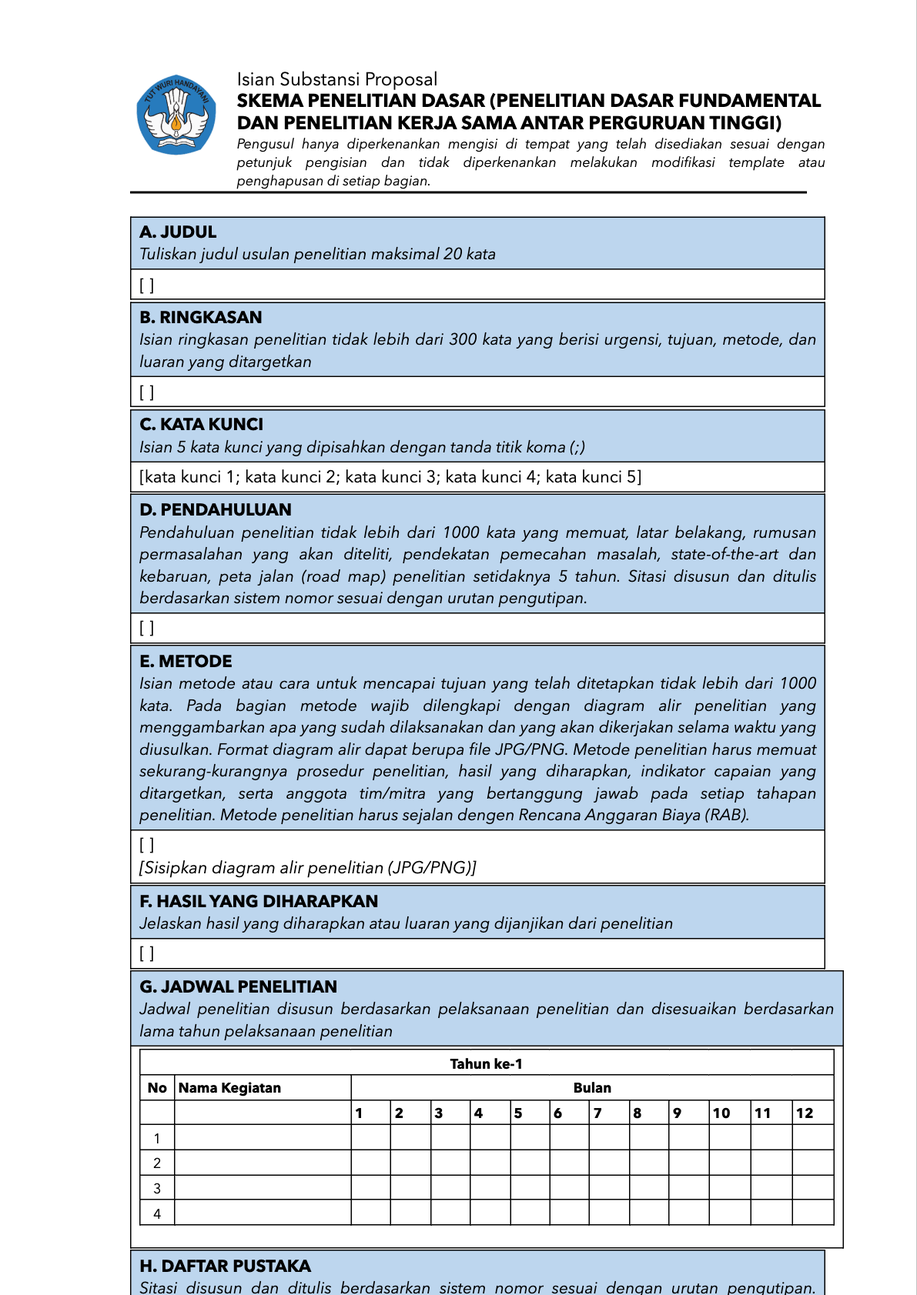
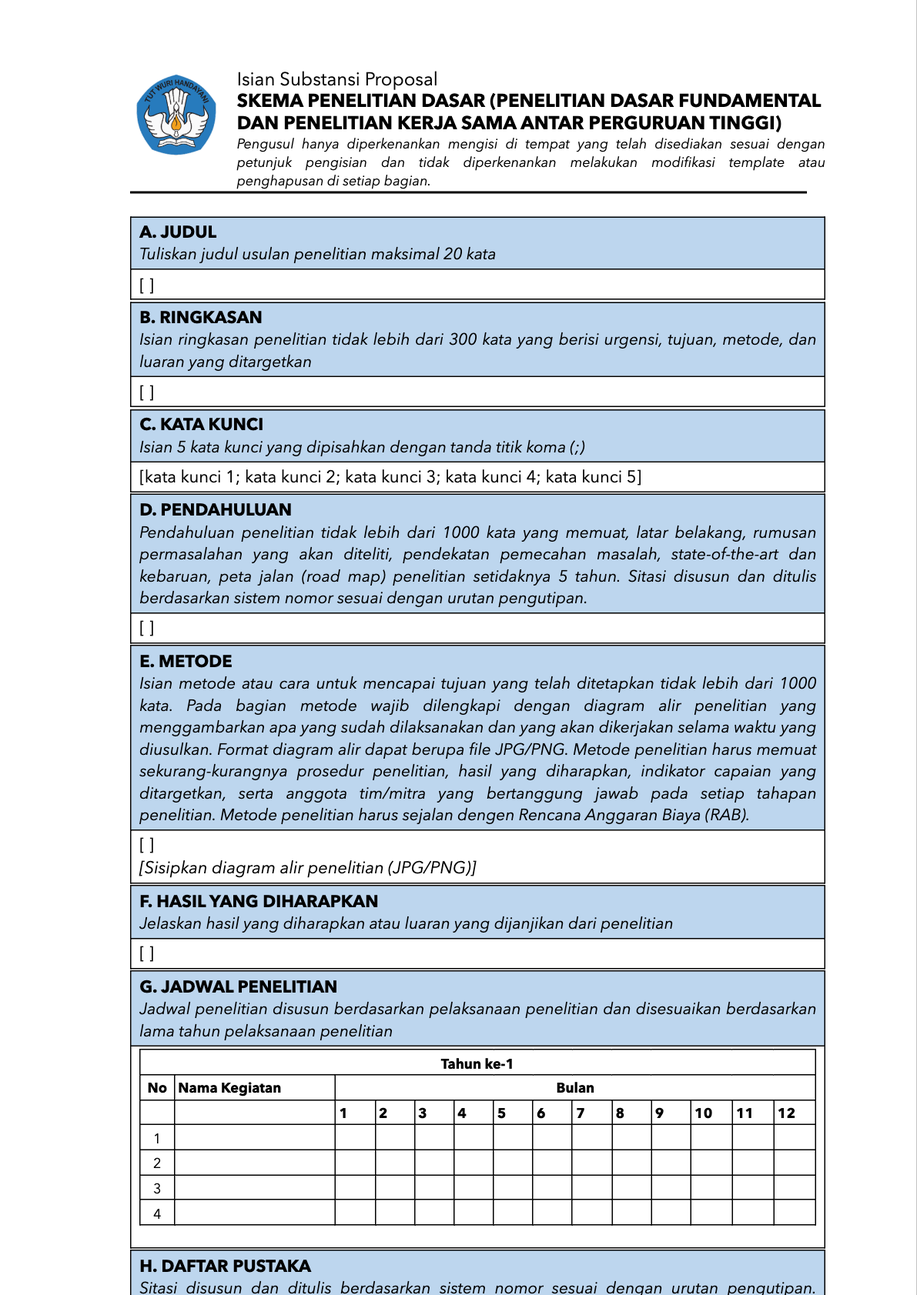
UC-01 putaran 3 (selesai): dokumen kontrak, spesifikasi metode, model, peta jendela, catatan inkonsistensi; e2e M-12, M-01, J-03 turunan; tabel isian menurut lebar sel; pratinjau bagian tambahan; placeholder M-12

Changed region(s): [[0.2175, 0.7415, 0.932, 0.9269]]

diff --git a/src/app/(semar)/tim-kerja/templat/[idTemplat]/susun/modal-ketentuan.tsx b/src/app/(semar)/tim-kerja/templat/[idTemplat]/susun/modal-ketentuan.tsx
@@ -190,8 +190,8 @@ function IsiModal({ buka, saatUbah, indeks, bagian, baru, saatBatalBaru, saatTer
           ) : null}
           {jenis === "tabel" ? (
             <div className="space-y-3">
-              <DaftarIsian label="Kolom Wajib" nilai={k.kolomTabel ?? []} saatUbah={(x) => ubah({ kolomTabel: x })} galat={galat?.kolomTabel} placeholder="mis. Nama Kegiatan, atau Bulan 1–12" labelTambah="Tambah Kolom" />
-              <Isian label="Judul Blok (opsional)" name="judul-tabel" autoComplete="off" className="max-w-xs" placeholder="mis. Tahun ke-1" value={k.judulTabel ?? ""} onChange={(e) => ubah({ judulTabel: e.target.value })} />
+              <DaftarIsian label="Kolom Wajib" nilai={k.kolomTabel ?? []} saatUbah={(x) => ubah({ kolomTabel: x })} galat={galat?.kolomTabel} placeholder="mis. Nama Kegiatan, atau Bulan 1–12…" labelTambah="Tambah Kolom" />
+              <Isian label="Judul Blok (opsional)" name="judul-tabel" autoComplete="off" className="max-w-xs" placeholder="mis. Tahun ke-1…" value={k.judulTabel ?? ""} onChange={(e) => ubah({ judulTabel: e.target.value })} />
               <p className="flex items-center gap-2 text-xs text-teks-redup">
                 <LencanaJenis jenis="deterministik" /> tabel ada dan kolom wajib terbaca (cekTabel)
               </p>
@@ -229,7 +229,7 @@ function IsiModal({ buka, saatUbah, indeks, bagian, baru, saatBatalBaru, saatTer
                 <LencanaJenis jenis="semantik" />
               </span>
             </div>
-            {k.wajibGambar ? <Isian label="Keterangan Gambar" name="ket-gambar" autoComplete="off" className="max-w-md" placeholder="diagram alir penelitian" value={k.ketGambar ?? ""} onChange={(e) => ubah({ ketGambar: e.target.value })} /> : null}
+            {k.wajibGambar ? <Isian label="Keterangan Gambar" name="ket-gambar" autoComplete="off" className="max-w-md" placeholder="mis. diagram alir penelitian…" value={k.ketGambar ?? ""} onChange={(e) => ubah({ ketGambar: e.target.value })} /> : null}
           </div>
 
           {jenis !== "tabel" ? (
@@ -238,7 +238,7 @@ function IsiModal({ buka, saatUbah, indeks, bagian, baru, saatBatalBaru, saatTer
                 <KotakCentang id="k-tabel" label="Tabel di dalam bagian" checked={k.wajibTabel ?? false} onCheckedChange={(v) => ubah({ wajibTabel: v === true })} />
                 <LencanaJenis jenis="deterministik" />
               </div>
-              {k.wajibTabel ? <DaftarIsian label="Kolom Wajib" nilai={k.kolomTabel ?? []} saatUbah={(x) => ubah({ kolomTabel: x })} galat={galat?.kolomTabel} placeholder="kolom wajib (opsional)" labelTambah="Tambah Kolom" /> : null}
+              {k.wajibTabel ? <DaftarIsian label="Kolom Wajib" nilai={k.kolomTabel ?? []} saatUbah={(x) => ubah({ kolomTabel: x })} galat={galat?.kolomTabel} placeholder="mis. Uraian…" labelTambah="Tambah Kolom" /> : null}
             </div>
           ) : null}
 
@@ -261,7 +261,7 @@ function IsiModal({ buka, saatUbah, indeks, bagian, baru, saatBatalBaru, saatTer
               <p className="text-sm font-medium text-primer-900">Frasa wajib</p>
               <LencanaJenis jenis="deterministik" />
             </div>
-            <DaftarIsian label="Frasa" nilai={k.frasaWajib ?? []} saatUbah={(x) => ubah({ frasaWajib: x })} galat={galat?.frasaWajib} placeholder="kalimat yang harus muncul persis" labelTambah="Tambah Frasa" />
+            <DaftarIsian label="Frasa" nilai={k.frasaWajib ?? []} saatUbah={(x) => ubah({ frasaWajib: x })} galat={galat?.frasaWajib} placeholder="mis. Seluruh biaya sesuai RAB…" labelTambah="Tambah Frasa" />
           </div>
 
           <div className="space-y-2">
@@ -278,7 +278,7 @@ function IsiModal({ buka, saatUbah, indeks, bagian, baru, saatBatalBaru, saatTer
                       className="min-w-0 flex-1"
                       name={`unsur-${i}`}
                       autoComplete="off"
-                      placeholder="mis. urgensi"
+                      placeholder="mis. urgensi…"
                       value={u.unsur}
                       onChange={(e) => ubah({ unsurIsi: (k.unsurIsi ?? []).map((x, j) => (j === i ? { ...x, unsur: e.target.value } : x)) })}
                     />
@@ -351,7 +351,7 @@ function IsiModal({ buka, saatUbah, indeks, bagian, baru, saatBatalBaru, saatTer
             <ul className="space-y-1">
               {pratinjau.map((b, i) => (
                 <li key={`${b.kode}-${i}`} className="flex flex-wrap items-center gap-2">
-                  <span className="font-mono text-xs font-semibold text-abu-700">{b.kode.replace(/-\d+$/, "")}</span>
+                  <span translate="no" className="font-mono text-xs font-semibold text-abu-700">{b.kode.replace(/-\d+$/, "")}</span>
                   <span className="min-w-0 flex-1">{b.deskripsi}</span>
                   <LencanaJenis jenis={b.jenis} />
                 </li>

diff --git a/scripts/pratinjau-docx.ts b/scripts/pratinjau-docx.ts
@@ -10,7 +10,7 @@ import { execFileSync } from "node:child_process";
 import { existsSync, mkdirSync, readFileSync } from "node:fs";
 import path from "node:path";
 import puppeteer from "puppeteer-core";
-import { bagianBawaan, kepalaBawaan, lengkapiBagian } from "../src/lib/templat/isian-substansi";
+import { bagianBawaan, kepalaBawaan, lengkapiBagian, susunPetunjuk } from "../src/lib/templat/isian-substansi";
 import { buatDokumenTemplat } from "../src/lib/templat/dokumen";
 
 const akar = path.resolve(import.meta.dirname, "..");
@@ -174,6 +174,37 @@ async function utama() {
     );
     await page.screenshot({ path: path.join(KELUAR, `uc01-docx-${nama}.png`), fullPage: true });
     console.log("tulis", `uc01-docx-${nama}.png`);
+  }
+
+  // bagian tambahan (putaran 3): daftar 3 butir, tabel berkolom, gambar berketerangan; hanya hasil generator, boleh di-commit
+  {
+    // petunjuk otomatis seperti yang tersimpan dari M-12 ("Susun ulang petunjuk")
+    const tambahan = lengkapiBagian(
+      lengkapiBagian([
+      { urutan: 1, nama: "Bidang Keilmuan", batasKata: null, wajib: true, jenisIsian: "daftar", jumlahButir: 3, pemisah: ";", unsurIsi: [{ unsur: "bidang keilmuan utama penelitian" }] },
+      { urutan: 2, nama: "Rencana Biaya", batasKata: 200, wajib: true, wajibTabel: true, kolomTabel: ["No", "Uraian", "Volume", "Biaya"], wajibGambar: true, ketGambar: "peta lokasi penelitian", frasaWajib: ["Seluruh biaya sesuai RAB"] },
+      { urutan: 3, nama: "Rincian Tahap", batasKata: null, wajib: true, jenisIsian: "tabel", kolomTabel: ["Kode", "Tahap", "Penanggung Jawab"], judulTabel: "Tahap 1" },
+      ]).map((b) => ({ ...b, petunjuk: susunPetunjuk(b) })),
+    );
+    const bytes = await buatDokumenTemplat({ versi: 2, status: "Draf" }, tambahan, [], { kode: "PD", namaSkema: "Penelitian Dasar" }, { nama: "Seleksi 2026", tahun: 2026 }, { kepala: kepalaBawaan("dasar"), mode: "isian" });
+    await page.close();
+    page = await peramban.newPage();
+    await page.setViewport({ width: 1000, height: 1300, deviceScaleFactor: 1.5 });
+    await page.setContent(`<!doctype html><html><head><style>${FONT_CSS}</style></head><body><div id="k"></div></body></html>`);
+    await page.addScriptTag({ content: jszip });
+    await page.addScriptTag({ content: dp });
+    await page.evaluate(async (b64: string) => {
+      const bin = atob(b64);
+      const u = new Uint8Array(bin.length);
+      for (let i = 0; i < bin.length; i++) u[i] = bin.charCodeAt(i);
+      // @ts-expect-error global dari docx-preview
+      await window.docx.renderAsync(u.buffer, document.getElementById("k"), undefined, { breakPages: true, ignoreLastRenderedPageBreak: false, useBase64URL: true });
+    }, Buffer.from(bytes).toString("base64"));
+    await new Promise((r) => setTimeout(r, 600));
+    const halaman = await page.$$("section.docx");
+    const kotak = await halaman[0].boundingBox();
+    if (kotak) await page.screenshot({ path: path.join(KELUAR, "uc01r3-docx-tambahan.png"), captureBeyondViewport: true, clip: { x: kotak.x, y: kotak.y, width: kotak.width, height: Math.min(kotak.height, 760) } });
+    console.log("tulis uc01r3-docx-tambahan.png");
   }
 
   // kop berdampingan dengan contoh pada skala sama (puncak lembar 230 px); tidak di-commit karena memuat potongan PDF asli

diff --git a/src/lib/templat/dokumen.ts b/src/lib/templat/dokumen.ts
@@ -320,7 +320,8 @@ function tabelIsian(kolomWajib: string[], judul: string | null): Table {
   const lain = kolom.filter((k) => !POLA_KOLOM_BULAN.test(k));
   const bulan = Array.from({ length: 12 }, (_, i) => String(i + 1));
   const lebarBulan = adaBulan ? 12 * 505 : 0;
-  const sisa = LEBAR_ISIAN - lebarBulan;
+  // lebar dalam sel isian: lebar tabel bagian dikurangi bantalan sel kiri dan kanan (2 x 100 twip) dan sedikit ruang bingkai
+  const sisa = LEBAR_ISIAN - 240 - lebarBulan;
   const lebarLain = lain.map((k) => (/^no\.?$/i.test(k) ? 380 : Math.floor((sisa - lain.filter((x) => /^no\.?$/i.test(x)).length * 380) / Math.max(1, lain.filter((x) => !/^no\.?$/i.test(x)).length)))) ;
   const jumlahTetap = lebarLain.reduce((a, b) => a + b, 0);
   if (lebarLain.length) lebarLain[lebarLain.length - 1] += sisa - jumlahTetap;

diff --git a/e2e/jalankan.ts b/e2e/jalankan.ts
@@ -96,7 +96,7 @@ async function skenario(nama: string, page: Page, kerja: (catat: (c: string) => 
     catatan.push("tanpa galat konsol");
   } catch (e) {
     lulus = false;
-    catatan.push(`GAGAL: ${e instanceof Error ? e.message : String(e)}`);
+    catatan.push(`GAGAL: ${e instanceof Error ? e.message : String(e)}${galatKonsol.length ? ` | konsol: ${galatKonsol.slice(0, 2).join(" | ").slice(0, 400)}` : ""}`);
     masalah.push(`${nama}: ${e instanceof Error ? e.message : String(e)}`);
     try {
       await foto(page, `gagal-${nama.replace(/[^a-z0-9]+/gi, "-").toLowerCase().slice(0, 40)}`);

diff --git a/docs/kontrak-dan-spesifikasi-metode.md b/docs/kontrak-dan-spesifikasi-metode.md
@@ -106,7 +106,7 @@ Tipe yang dirujuk berada di `kontrak/tipe.ts` (`ButirCek`, `DokumenPeriksa`, `Ko
 | Type of Value Returned | `ButirSeed[]` (`kode, deskripsi, jenis:"deterministik", asal:"templat", komponen, pemeriksa, parameter: ParameterButir, aturanHitung`) |
 | Pre-Conditions | [P1] Masukan sudah lolos C-01 (nama tidak kosong). Fungsi murni, tanpa basis data. |
 | Post-Conditions | [Q1] Untuk setiap bagian dengan `wajib = true`: tepat satu butir `BGN-nn` (`parameter = {tipe:"bagian_terisi", bagian}`, pemeriksa `periksaBagianTerisi`, komponen `Screening`); bagian terisi bila berisi kata atau penanda tabel/gambar.<br>[Q2] Untuk setiap bagian dengan `batasKata != null` (termasuk 0): tepat satu butir `KTA-nn` (`{tipe:"batas_kata", bagian, batas}`, pemeriksa `hitungKata`, komponen `2. Jumlah kata per bagian`).<br>[Q2a] Bagian `jenisIsian = "daftar"` dengan `jumlahButir >= 1` dan `pemisah`: butir `KAT-nn` (`{tipe:"kata_kunci", jumlah, pemisah}`, `cekKataKunci`, deskripsi "Kata kunci tepat 5, dipisahkan titik koma (;)"). Bagian `wajibGambar`: `GBR-nn` (`{tipe:"diagram_alir", bagian}`, `periksaDiagramAlir`). Bagian `jenisIsian = "tabel"`: `TBL-nn` (`{tipe:"tabel_wajib", bagian}`, `cekTabel`).<br>[Q2b] Bila ada bagian `sitasiBernomor`: `SIT-01` (`sitasi_bernomor`); bila ada bagian `daftarPustaka` (nama masuk parameter `pustaka`): `SIT-02` (`pustaka_berurutan`) dan `SIT-03` (`jumlah_referensi_sama`), semuanya `cocokkanSitasi`.<br>[Q3] Untuk setiap lampiran: tepat satu butir `LMP-nn` (`{tipe:"lampiran_wajib", nama}`, `cekLampiran`, komponen `Lampiran`); untuk lampiran berjenis formulir dengan kalimat kunci: tambahan `FMT-nn` (`{tipe:"lampiran_format", nama, kunci[]}`).<br>[Q4] Penomoran `nn` dua digit terpisah per awalan (BGN, KTA, KAT, GBR, TBL, LMP, FMT), mengikuti urutan masukan; urutan keluaran: per bagian (BGN, KTA, KAT, GBR, TBL), lalu SIT, lalu LMP, lalu FMT.<br>[Q5] Jumlah keluaran = bagian wajib + bagian berbatas kata + butir ketentuan + butir sitasi + lampiran + butir format.<br>[Q6] Semua butir `jenis = "deterministik"`, `asal = "templat"`; status `Draf` diberikan oleh pemanggil (C-02). |
-| Catatan | Daftar Pustaka dan Kata Kunci hanya menghasilkan butir bila ditandai wajib atau berbatas kata. Butir sitasi dan kata kunci tidak berasal dari templat (manual, UC-02). |
+| Catatan | Daftar Pustaka dan Kata Kunci hanya menghasilkan butir bila ditandai wajib atau berbatas kata. Butir sitasi dan kata kunci tidak berasal dari templat (manual, UC-02). **Diperluas pada putaran 3 (24 Okt 2026): butir semantik dan ketentuan baru, lihat bagian "Putaran 3 UC-01" di akhir berkas.** |
 
 ### C-04 TemplatProposal.arsipkan
 
@@ -739,4 +739,48 @@ Fungsi murni baru pada putaran 22 Okt 2026 dan kontrak induknya: `putuskanTerbit
 | Bagian formulir | Isi |
 |---|---|
 | Algorithm Specification | [J1] IF lampiran belum ada THEN Gagal; SET teks = normalisasi isi lampiran; [J2] IF teks kosong (pindaian) THEN Lolos "format belum diperiksa"; SET hilang = kalimat kunci yang tidak ada di teks (huruf kecil, tanda baca dan spasi ganda dibuang); [J3] IF hilang kosong THEN Lolos "n dari n kalimat kunci"; [J4] ELSE Gagal dengan daftar yang belum ada. |
+
+## Putaran 3 UC-01 (24 Okt 2026): ketentuan bagian komprehensif
+
+Pembaruan C-01, C-03, C-17, C-31, MS-10, MS-13, MS-15, MS-16 serta MS baru MS-18 (periksaFrasa dan periksaBatasMin) dan MS-19 (susunPetunjuk). Sumber keputusan: `docs/arah-uc01-2026-10-23.md` bagian 6.
+
+### Model ketentuan sebuah bagian (Class Diagram BagianTemplat)
+
+Atribut: `nama`, `tipeIsian` (`teks` | `daftar` | `tabel` | `daftar_pustaka`), `batasMin` (opsional), `batasKata` (maksimal, opsional), `wajib`, `petunjuk`, dan **Wajib Memuat**: `wajibGambar` + `ketGambar`, `wajibTabel` (di dalam bagian teks) + `kolomTabel` + `judulTabel`, `sitasiBernomor`, `frasaWajib[]`, `unsurIsi[]` (`unsur`, `pertanyaan` opsional); untuk tipe daftar `jumlahButir` dan `pemisah` (`;` `,` `/`). Tipe `daftar_pustaka` disimpan sebagai `jenis_isian = teks` dengan `daftar_pustaka = true` supaya kode produksi lama tetap membaca baris yang sama.
+
+### C-01 periksaKelengkapan (tambahan)
+
+| Bagian formulir | Isi |
+|---|---|
+| Arguments Received (tambahan) | Tiap `BarisBagianMentah` memuat `batasMin: string`, `wajibTabel`, `kolomTabel: string[]`, `judulTabel`, `ketGambar`, `frasaWajib: string[]`, `unsurIsi: {unsur; pertanyaan}[]`, dan `jenisIsian` boleh `daftar_pustaka`. |
+| Post-Conditions (tambahan) | [Q8] `ketentuan.batasMin` terisi bila `batasMin` tidak kosong dan bukan bilangan bulat > 0, atau melebihi `batas` (saat `tanpaBatas = false` dan `batas` sah).<br>[Q9] `ketentuan.kolomTabel` terisi bila tipe `tabel` tanpa kolom terisi, atau ada nama kolom kosong (tipe `tabel` atau `wajibTabel`).<br>[Q10] `ketentuan.frasaWajib` terisi bila ada frasa kosong; `ketentuan.unsurIsi` terisi bila ada unsur kosong.<br>[Q11] Tipe `daftar`: jumlah butir bilangan bulat >= 1 dan pemisah tepat satu karakter (seperti sebelumnya).<br>[Q12] Paling banyak satu bagian bertipe `daftar_pustaka` (atau berpenanda `daftarPustaka`); `sitasiBernomor` pada suatu bagian butuh satu bagian `daftar_pustaka`.<br>[Q13] `lengkap = false` bila ada `ketentuan` non-null pada baris mana pun. |
+
+### C-03 turunkanButirCek (pengganti [Q1]-[Q6] untuk bagian)
+
+| Bagian formulir | Isi |
+|---|---|
+| Arguments Received | `bagian: BagianSeed[]` memuat ketentuan penuh (atribut di atas); `lampiranWajib`; `lampiranTemplat` |
+| Type of Value Returned | `ButirSeed[]` = `{kode, deskripsi, jenis: "deterministik" \| "semantik", asal: "templat", komponen, pemeriksa, parameter, aturanHitung, pertanyaan, contohJawaban, bagian}` |
+| Post-Conditions | [Q1] `wajib` → `BGN-nn` (Deterministik, `periksaBagianTerisi`).<br>[Q2] `batasKata != null` → `KTA-nn` (`hitungKata`); `batasMin != null` → `KTM-nn` (`{tipe:"batas_kata_min"}`, `hitungKata` minimal).<br>[Q3] tipe `daftar` dengan jumlah dan pemisah → `KAT-nn` (`{tipe:"kata_kunci", jumlah, pemisah, bagian}`, `cekKataKunci`); deskripsi "Kata kunci tepat N, dipisahkan titik koma (;)" untuk bagian Kata Kunci, selain itu "<Nama>: tepat N butir, dipisahkan ...".<br>[Q4] `wajibGambar` → `GBR-nn` (Deterministik, `{tipe:"diagram_alir", bagian, keterangan}`, bawaan keterangan "diagram alir penelitian") **dan** satu `UNS-nn` Semantik (kesesuaian isi gambar dengan bagian; pemetaan ISI-03S).<br>[Q5] tipe `tabel` atau `wajibTabel` → `TBL-nn` (`cekTabel`, parameter memuat `kolom` bila ada).<br>[Q6] setiap frasa wajib terisi → `FRS-nn` (`{tipe:"frasa_wajib", bagian, frasa}`, `periksaFrasa`).<br>[Q7] setiap unsur isi terisi → satu `UNS-nn` Semantik (`nilaiSemantik`, `{tipe:"semantik", bagian}`, `pertanyaan` = hasil sunting atau "Apakah bagian {nama} memuat {unsur}?"). Butir ini berjalan di J-08/UC-09 seperti butir semantik manual (mesin membaca `parameter.bagian` dan `pertanyaan`).<br>[Q8] `sitasiBernomor` → `SIT-01`; bagian `daftar_pustaka` → `SIT-02`, `SIT-03` (`cocokkanSitasi`).<br>[Q9] lampiran seperti sebelumnya (`LMP-nn`, `FMT-nn`).<br>[Q10] Penomoran `nn` terpisah per awalan (BGN, KTA, KTM, KAT, GBR, TBL, FRS, UNS, LMP, FMT), mengikuti urutan bagian; urutan keluaran per bagian: BGN, KTA, KTM, KAT, GBR, UNS gambar, TBL, FRS, UNS unsur; lalu SIT; LMP; FMT.<br>[Q11] Butir tetap bergembok di J-03 (4a); status `Draf` diberikan C-02. |
+| Catatan | Pemetaan butir semantik katalog lama: ISI-01 → UNS (4 unsur Ringkasan); ISI-02 → UNS (5 unsur Pendahuluan); ISI-04 → UNS (unsur "anggota tim/mitra ..." pada Metode); ISI-05S → UNS (Hasil yang Diharapkan); ISI-03S → UNS kesesuaian gambar (Metode); ISI-05D → BGN (Hasil yang Diharapkan wajib). Butir lampiran semantik (LMP-S1, ART-S1/S2, MIT-S1) tetap manual. |
+
+### C-17 / MS-13 cekKataKunci (tambahan)
+
+Argumen keempat `bagianDaftar?: string`. [J10] Bila bagian bernama "Kata Kunci" (atau tidak disebut) isian dibaca dari `dokumen.kataKunci`; [J11] bagian daftar lain dibaca dari `teksPerBagian[bagian]`, sebutan "butir" menggantikan "kata kunci" di angka pembukti dan nama bagian di `bagian`/`batasDilanggar`. Jalur J1-J9 tidak berubah.
+
+### MS-15 cekTabel (tambahan) dan periksaDiagramAlir (tambahan)
+
+`cekTabel(dokumen, bagian, kolom?)`: [J6] tanpa bukti tabel → Gagal; [J7] tanpa kolom wajib → Lolos seperti J1-J4; [J8] bukti hanya penanda "[tabel]" dari DOCX dan tak satu pun kolom terbaca → Lolos dengan catatan "isi kolom tidak terbaca ... belum dapat diperiksa" (isi tabel DOCX tidak diekstrak); sebagian kolom terbaca → Gagal; [J9] semua kolom terbaca → Lolos, selain itu Gagal "belum ada: ...". Kolom "Bulan a–b" cukup dengan kata "bulan". `periksaDiagramAlir(dokumen, bagian, keterangan?)`: [J5] keterangan khusus (bukan "diagram alir") dicari pada baris "Gambar n ..." yang memuatnya; [J6] bila tidak ada tetapi ada gambar lain tetap Lolos sebagai gambar; tanpa gambar Gagal dengan menyebut keterangan.
+
+### MS-18 periksaFrasa dan periksaBatasMin
+
+`periksaFrasa(dokumen, bagian, frasa)`: [J1] normalisasi (huruf kecil, tanda baca dan spasi ganda dibuang) teks bagian memuat frasa → Lolos; [J2] selain itu Gagal "Bagian X harus memuat kalimat ...". `periksaBatasMin(dokumen, bagian, batas)`: [J1] jumlah kata >= batas → Lolos; [J2] selain itu Gagal dengan selisih; [J3] bagian tidak ditemukan dicatat pada angka pembukti.
+
+### MS-19 susunPetunjuk
+
+Menyusun kalimat petunjuk dari ketentuan: [J1] daftar pustaka memakai kalimat resmi; [J2] daftar: "Isian N butir ... dipisahkan dengan tanda <nama pemisah>"; [J3] tabel: kolom dan judul blok; [J4] teks dengan minimal, maksimal (`{batas}`), keduanya, atau tanpa batas; [J5] unsur isi ("yang memuat a, b, dan c"; dua unsur "a dan b"); [J6] gambar, [J7] tabel wajib, [J8] sitasi bernomor, [J9] frasa wajib sebagai kalimat tambahan. Bagian A-H bawaan memakai petunjuk resmi dari contoh, bukan fungsi ini.
+
+### C-31 / MS-10 buatDokumenTemplat (tambahan)
+
+Tempat isian mengikuti ketentuan: [J12] daftar `[butir 1; butir 2; ...]` (bagian Kata Kunci memakai "kata kunci n") dengan pemisah bagian; [J15] tabel menurut `kolomTabel` (kolom "Bulan 1–12" diperluas dua belas nomor bulan; kolom "No" diberi nomor baris; judul blok bila ada, bawaan "Tahun ke-1" untuk baris lama tanpa kolom); [J16] bagian teks `wajibTabel` mencetak "[Sisipkan tabel]" dan tabel kosong; [J17] gambar mencetak "[Sisipkan {keterangan} (JPG/PNG)]". Kop dan kepala mengikuti ukuran terukur dari PDF contoh (lihat `docs/perubahan-model.md`, putaran 3).
 

diff --git a/docs/peta-uc-jendela.md b/docs/peta-uc-jendela.md
@@ -38,7 +38,7 @@ Modal memakai Dialog `radix-ui` (fokus terjebak, Esc menutup, `aria-labelledby`)
 | M-01 | "Terbitkan" | J-02 `?hasil=terbit` (s.10) atau `?hasil=draf` (9a) | layar | "Buka Aturan Pemeriksaan" dan "Unduh Templat (.docx)" / "Buka Draf" dan "Unduh Pratinjau (.docx)" |
 | J-02b | "Unduh Pratinjau (.docx)" | unduhan (draf disimpan dulu) | unduhan | paket lengkap: halaman depan, Isian Substansi A-H, halaman lampiran |
 | J-02 | "Unduh Isian Substansi (.docx)" | unduhan (`?mode=isian`) | unduhan | hanya bagian A-H |
-| J-02b | "Atur Ketentuan" (per baris bagian) | M-12 Ketentuan Bagian | modal | yang diganti per versi: petunjuk, batas kata, jumlah butir (bagian daftar), wajib; aturan format baku tampil hanya-baca; "Terapkan" nonaktif bila jumlah butir atau batas kata tidak sah |
+| J-02b | "Atur Ketentuan" (per baris bagian) | M-12 Ketentuan Bagian | modal | dipakai untuk "Tambah Bagian" dan "Atur Ketentuan"; ukuran lg dengan isi bergulir; empat kelompok: Tipe Isian (teks, daftar, tabel, daftar pustaka), Batas Kata (minimal dan maksimal), Wajib Memuat (gambar berketerangan, tabel, sitasi bernomor, frasa wajib, unsur isi), Petunjuk Pengisian (disusun otomatis, "Susun ulang petunjuk", boleh disunting); tiap pilihan berlabel Deterministik atau Semantik; pratinjau "Butir cek yang akan lahir dari bagian ini"; validasi di dekat isian, "Terapkan" nonaktif bila tidak sah; Batal pada bagian baru membuang barisnya |
 | J-02b | "Atur Templat Lampiran" (per lampiran wajib) | M-13 Templat Lampiran | modal | unggahan bebas atau formulir bertemplat (judul, isi, kalimat kunci untuk cekLampiran), sakelar sertakan halaman lampiran |
 | J-02b | "Simpan Draf" | J-02b (toast) | - | Back membuka J-02 |
 | J-03 | "Tambah Butir" / "Ubah" (butir manual) | M-02 Form Butir | modal | galat tampil di dekat isian |
@@ -117,7 +117,7 @@ Alamat: `/demo/mulai?j=<kode jendela>&s=<id skenario>`; tanpa `s` (berpindah jen
 
 | UC | Jendela yang dipakai | Langkah real use case | Alternatif yang dapat diperagakan | Rute awal (jalan pintas) |
 |---|---|---|---|---|
-| UC-01 Mengelola templat proposal | J-02, J-02b, M-01, M-12, M-13 | s.1-3 J-02 (pilih Skema Pendanaan; lihat versi, periode, bagian, lampiran); s.4-7 J-02b (Susun Versi Baru; Tambah Bagian/Lampiran; Periode Berlaku); s.7 M-01 (Terbitkan); s.10 dan 9a J-02 `?hasil=` (pesan terbit dan jumlah butir draf; Buka Aturan Pemeriksaan). Semula: 1-10: lihat versi, periode, bagian, lampiran; Susun Versi Baru; Tambah Bagian/Lampiran; Periode Berlaku; Terbitkan; pesan terbit dan jumlah butir draf; Buka Aturan Pemeriksaan | S-1 skema belum punya templat (kartu `UC-01-S1`, skema contoh "PK"); S-2 Lengkapi isian yang ditandai (J-02b, modal tidak terbuka); 9a masa pengusulan berjalan (draf tersimpan) | `/demo/mulai?k=UC-01` -> `/tim-kerja/templat` (masa ditutup, draf sisa demo dibuang; nyalakan sakelar "berjalan" untuk 9a); `k=UC-01-S1` -> J-02 pada skema tanpa templat |
+| UC-01 Mengelola templat proposal | J-02, J-02b, M-01, M-12, M-13 | s.1-3 J-02 (pilih Skema Pendanaan; lihat versi, periode, bagian, lampiran); s.4-7 J-02b (Susun Versi Baru; Tambah Bagian/Lampiran; Periode Berlaku); s.7 M-01 (Terbitkan; menyebut jumlah butir deterministik dan semantik yang akan dibuat); s.10 dan 9a J-02 `?hasil=` (jumlah butir per jenis; Buka Aturan Pemeriksaan membuka J-03 dengan butir turunan baru tersorot) (pesan terbit dan jumlah butir draf; Buka Aturan Pemeriksaan). Semula: 1-10: lihat versi, periode, bagian, lampiran; Susun Versi Baru; Tambah Bagian/Lampiran; Periode Berlaku; Terbitkan; pesan terbit dan jumlah butir draf; Buka Aturan Pemeriksaan | S-1 skema belum punya templat (kartu `UC-01-S1`, skema contoh "PK"); S-2 Lengkapi isian yang ditandai (J-02b, modal tidak terbuka); 9a masa pengusulan berjalan (draf tersimpan) | `/demo/mulai?k=UC-01` -> `/tim-kerja/templat` (masa ditutup, draf sisa demo dibuang; nyalakan sakelar "berjalan" untuk 9a); `k=UC-01-S1` -> J-02 pada skema tanpa templat |
 | UC-02 Mengelola aturan pemeriksaan | J-03, J-03b, M-02..M-05 (tautan ke J-02) | s.1-2 J-03 (pilih skema dan periode; tabel butir); s.3-4 M-02 (Tambah Butir/Ubah), M-03 (Nonaktifkan), M-04 (4a butir turunan templat); s.5 M-02 (Simpan Butir); s.6 J-03b (Uji pada Contoh, Hasil Uji); s.7-8 M-05 (Tanggal Berlaku, Simpan Versi). Semula: 1-8: pilih skema dan periode; tabel butir; Tambah Butir/Ubah/Nonaktifkan; panel butir; Simpan Butir; Uji pada Contoh (Hasil Uji); Tanggal Berlaku dan Simpan Versi | S-1 ubah lalu uji ulang; 4a butir turunan templat (terkunci); 8a tanggal berlaku di tengah masa pengusulan | `/demo/mulai?k=UC-02` -> `/tim-kerja/aturan` |
 | UC-03 Menugaskan reviewer | J-04 (s.1), J-04b (s.2-8), M-06 (S-2), M-07 (s.7); pesan penetapan terlihat di kotak masuk BIMA dan J-07 | s.1 J-04 (periode ditutup); s.2-6 J-04b (Batas Beban per Reviewer; Susun Usulan Penugasan; tabel Usulan Penugasan dan Sebaran Beban); S-2 M-06; s.7 M-07 (Tetapkan Penugasan); s.8 J-04b (pesan ditetapkan). Semula: 1-8: Batas Beban per Reviewer; Susun Usulan Penugasan; tabel Usulan Penugasan dan Sebaran Beban; Tetapkan Penugasan | S-1 Kekurangan Reviewer (batas beban 1); S-2 Pindahkan, Reviewer Pengganti, Simpan Pemindahan (syarat dilanggar ditampilkan) | `/demo/mulai?k=UC-03` -> `/tim-kerja/penugasan` (enam proposal Terkirim siap ditugaskan, masa ditutup) |
 | UC-04 Memantau kesesuaian penilaian | J-05, M-08, M-09, J-05b (butir yang ditandai tampil di J-03) | s.1-5 J-05; s.4-5 rincian di M-08; s.6-7 M-09 (Tandai Butir) lalu J-03; J-05b untuk rincian proposal. Semula: 1-7: Periode Seleksi dan Skema Pendanaan; Butir Deterministik Paling Sering Gagal; Kesesuaian per Butir (% Disetujui); Butir dengan Koreksi Tertinggi; Perlu Diperbaiki dan Tandai Butir | S-1 M-08 Rincian Butir dan Tutup | `/demo/mulai?k=UC-04` -> `/tim-kerja/pemantauan` (data proposal Ditahan dan penilaian Final tersedia) |

diff --git a/docs/catatan-inkonsistensi.md b/docs/catatan-inkonsistensi.md
@@ -41,4 +41,7 @@ Hal-hal berikut perlu diselaraskan kelompok di naskah. Rujukan baris memakai `do
 | 35 (UC-01, 23 Okt) | **UC-01 s.5 diperluas: ketentuan per bagian, modal M-12/M-13, kop dan paket.** Bab 10 UC-01 s.5 hanya menyebut nama, batas kata, dan lampiran. Contoh nyata (4 PDF BIMA) menunjukkan ketentuan lain yang dapat diperiksa: kata kunci berformat daftar (tepat 5, pemisah ";"; contoh no. 5 memakai koma dan Gagal), sitasi bernomor sesuai urutan kutip dan daftar pustaka bernomor yang dicocokkan, wajib gambar (diagram alir Metode), jadwal berupa tabel. Diusulkan untuk Bab 7/10: s.5 menyebut ketentuan per bagian dengan modal M-12 "Ketentuan Bagian" (yang diganti per versi: petunjuk, batas kata, jumlah butir, wajib; aturan format baku hanya-baca) dan M-13 "Templat Lampiran"; s.10 menurunkan butir per ketentuan (Tabel 5.5 bagian 1-3 dan Lampiran); class diagram BagianTemplat menambah atribut `petunjuk`, `jenisIsian`, `jumlahButir`, `pemisah`, `wajibGambar`, `sitasiBernomor`, `daftarPustaka`, dan TemplatProposal menambah kepala, kop, dan templat lampiran. |
 | 36 (UC-01, 23 Okt) | **Ekspor BIMA memuat "PERSETUJUAN PENGUSUL" (LPPM) dan tabel "Komponen Administrasi \| Kesesuaian"** (Kesesuaian Isi Per Bagian; Jumlah Kata Per Bagian; Model Penulisan Sitasi dan Penulisan Daftar Pustaka; Ketua Pengusul Memiliki Hasil Penelitian Yang Relevan ...; Memiliki Mitra Yang Dibuktikan Dengan Surat Pernyataan). Tabel itu sama dengan komponen borang J-08b; dicatat sebagai bukti kesesuaian, tidak dibangkitkan di templat. Kop paket unduhan memakai nama lembaga asli (sistem dirancang untuk Kemdiktisaintek); aturan "tanpa identitas Kemdiktisaintek" hanya untuk halaman BIMA tiruan. |
 | 37 (UC-01, 23 Okt) | **Temuan pemeriksa atas 4 PDF asli.** `cekKataKunci`: no. 1, 6, 10 Lolos (no. 1 frasa terpotong baris, no. 10 titik koma penutup diabaikan), no. 5 Gagal (pemisah koma). Butir gambar (GBR-01) Gagal pada no. 5 karena gambar tanpa keterangan tidak tampak pada teks PDF (pemeriksa berbasis teks); sitasi (SIT-nn) pada contoh asli tidak rapi sempurna (nomor melompat atau pustaka tak dikutip) dan dibahas terpisah. |
+| 38 (UC-01 putaran 3, 24 Okt) | **Ketentuan bagian komprehensif; aturan DIBUAT dari templat, DIKELOLA di J-03.** Bab 10 UC-01 s.5 dan Bab 7 (BagianTemplat) diusulkan memuat: Tipe Isian (teks, daftar, tabel, daftar pustaka), batas kata minimal dan maksimal, Wajib Memuat (gambar berketerangan, tabel berkolom, sitasi bernomor, frasa wajib, unsur isi) dan petunjuk yang disusun otomatis tetapi dapat disunting. M-12 dipakai untuk Tambah Bagian dan Atur Ketentuan (menggantikan pembatasan "format baku hanya-baca" pada catatan 35). s.10 (turunkanButirCek) menurunkan butir deterministik dan semantik (satu butir semantik per unsur isi, pertanyaan otomatis yang dapat disunting). **Pembagian peran:** J-02/M-12 membuat aturan (butir turunan bergembok, jenisnya terlihat sejak M-12: Deterministik atau Semantik; M-01 menyebut jumlahnya); J-03 mengelola butir: aktifkan, asah pertanyaan semantik butir manual, uji pada contoh, tanggal berlaku, Perlu ditinjau dari UC-04, dan butir tambahan di luar templat (J-03 "Tambah Butir" tetap ada). Pertanyaan butir semantik turunan disunting di M-12 (per unsur), bukan di J-03 (4a tetap berlaku). |
+| 39 (UC-01 putaran 3, 24 Okt) | **UC-02: butir semantik kini turunan templat.** Katalog manual ISI-01, ISI-02, ISI-03S, ISI-04, ISI-05S dan ISI-05D digantikan butir turunan `UNS-nn` dan `BGN-nn` pada templat bawaan; butir semantik lampiran (LMP-S1, ART-S1, ART-S2, MIT-S1) tetap manual. Bab 10 UC-02 (contoh butir semantik manual) dan Tabel 5.5 komponen 1 perlu menyebut bahwa butir kesesuaian isi per bagian berasal dari templat. Pada basis data lama yang masih memuat butir ISI-xx manual, butir itu tidak otomatis dinonaktifkan saat templat baru terbit (tidak ada pemetaan otomatis); tim kerja menonaktifkannya di J-03. |
+| 40 (UC-01 putaran 3, 24 Okt) | **Batas pemeriksa kolom tabel.** `cekTabel` dengan kolom wajib tidak dapat membaca isi tabel dari berkas DOCX (hanya penanda tabel diekstrak); pada DOCX hasilnya Lolos dengan catatan "belum dapat diperiksa", pada PDF kolom dicari di teks hasil ekstraksi. Tampilan pratinjau kop memakai font pengganti bila Avenir Next LT Pro dan Roboto tidak terpasang. Tambahan prototipe; tidak ada di Bab 10. |
 

diff --git a/docs/perubahan-model.md b/docs/perubahan-model.md
@@ -95,3 +95,13 @@ Dicatat sesuai keputusan 4 (`docs/keputusan.md`). Skema lengkap: `src/db/schema.
 | `ButirCek` turunan templat (23 Okt) | Butir diturunkan dari ketentuan: BGN-nn (bagian_terisi, `periksaBagianTerisi`; sebelumnya `bagian_wajib`), KTA-nn, KAT-nn (`kata_kunci`, jumlah dan pemisah dari bagian), GBR-nn (`diagram_alir`), TBL-nn (`tabel_wajib`, `cekTabel`), SIT-01..03 (`cocokkanSitasi`, parameter `pustaka`), LMP-nn, FMT-nn (`lampiran_format`, kalimat kunci formulir). KAT-01, SIT-01..03, ISI-03D dikeluarkan dari katalog manual (`katalog-butir.json`). Parameter baru: `tabel_wajib`, `lampiran_format`. | Bab 5 (Tabel 5.5), Bab 10 UC-01 s.10 |
 | Proposal demo F dan PRP-2026-0005 (23 Okt) | Varian `f` (kata kunci dipisah koma) sebagai dokumen contoh "Contoh F" dan proposal Draf BIMA PRP-2026-0005 (pengusul-3); jalan pintas `UC-06-koma`. Nomor PRP-2026-0004 (skenario reviewer) tidak berubah. | Bab 10 UC-06 |
 
+## Putaran 3 UC-01: ketentuan bagian komprehensif (24 Okt 2026)
+
+**Perubahan skema aditif** (DB Neon dipakai bersama produksi; kode lama tetap berjalan karena semua kolom baru nullable). Kolom baru pada `bagian_templat`: `batas_min` (integer), `wajib_tabel` (boolean), `kolom_tabel` (jsonb string[]), `judul_tabel` (text), `ket_gambar` (text), `frasa_wajib` (jsonb string[]), `unsur_isi` (jsonb `{unsur, pertanyaan?}[]`). Kolom putaran 1 (`petunjuk`, `jenis_isian`, `jumlah_butir`, `pemisah`, `wajib_gambar`, `sitasi_bernomor`, `daftar_pustaka`) tetap. Tipe isian `daftar_pustaka` tidak menambah nilai pada `jenis_isian`: disimpan sebagai `teks` + `daftar_pustaka = true` (`keKolomBagian`), dibaca kembali sebagai `daftar_pustaka` (`lengkapiBagian`). Baris lama tanpa kolom baru: unsur isi, frasa, dan batas minimal kosong (tidak diturunkan dari nama).
+
+| Kelas / tabel | Perubahan | Alasan | Bab yang perlu disesuaikan |
+|---|---|---|---|
+| `BagianTemplat` | Atribut baru `batasMin`, `wajibTabel`, `kolomTabel`, `judulTabel`, `ketGambar`, `frasaWajib`, `unsurIsi`; `jenisIsian` bertambah `daftar_pustaka`. Semua ketentuan kini dapat diatur di M-12 (menggantikan pembatasan "format baku hanya-baca" bagian 4 arahan). | Keputusan Arsy 23 Okt: bagian tambahan dapat memilih tipe dan hal wajib. | Bab 7 (class diagram), Bab 10 UC-01 s.5 |
+| `ButirCek` turunan templat | Awalan baru `KTM` (batas minimal), `FRS` (frasa wajib), `UNS` (semantik, satu per unsur isi dan satu kesesuaian gambar). `UNS-nn` menggantikan butir semantik manual ISI-01, ISI-02, ISI-03S, ISI-04, ISI-05S dan butir ISI-05D (kini `BGN-nn`) di katalog seed `katalog-butir.json`. Parameter baru: `batas_kata_min`, `frasa_wajib`; `kata_kunci.bagian`, `diagram_alir.keterangan`, `tabel_wajib.kolom`. | Aturan dibuat dari templat, dikelola di J-03. | Tabel 5.5, Bab 10 UC-01 s.10, UC-02 |
+| Kop dan kepala `.docx` | Ukuran terukur dari PDF contoh (pt, A4 595 x 842): Isian Substansi: margin kiri/kanan 72, atas 45; logo 60 x 60 di x 72; teks mulai x 141 (kolom logo 69, tanpa bantalan sel); judul 12 reguler, SKEMA 12 tebal (jarak 14,4), pengantar 9 miring (jarak 11); garis tebal 1,5 di y 126. Halaman depan: margin kiri 85, kanan 71, atas 34,5; logo 48 x 48; teks kop mulai x 141, 10 pt (jarak 10,55), baris pertama Medium; garis tipis sebagai batas bawah sel kop (y 87); "PROTEKSI ISI PROPOSAL" 10 pt Medium di y 97; kalimat larangan 7,5 pt dua baris di tengah (lebar teks 370). | Permintaan Arsy: kop sama dengan PDF contoh. | Tidak perlu |
+
